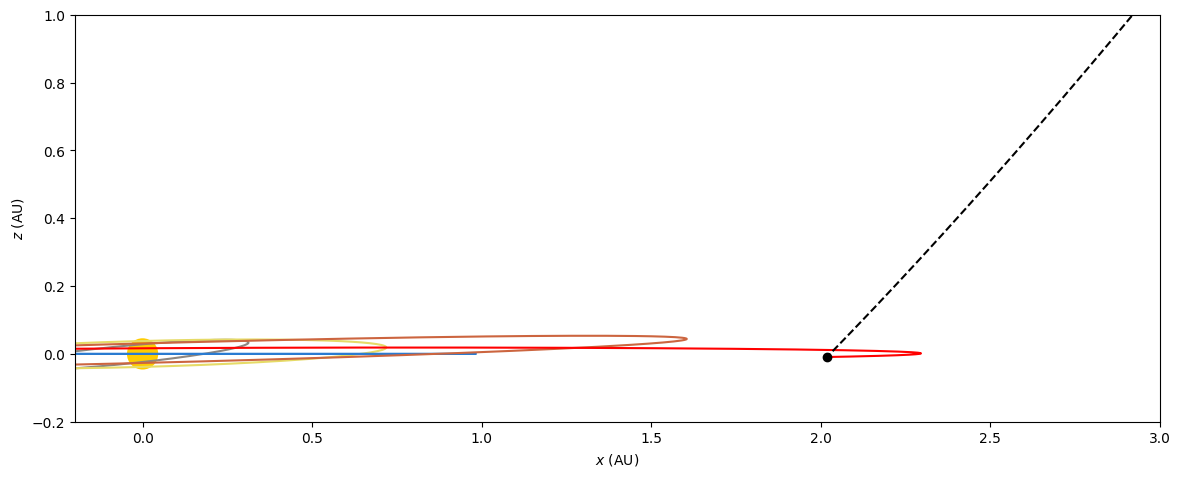
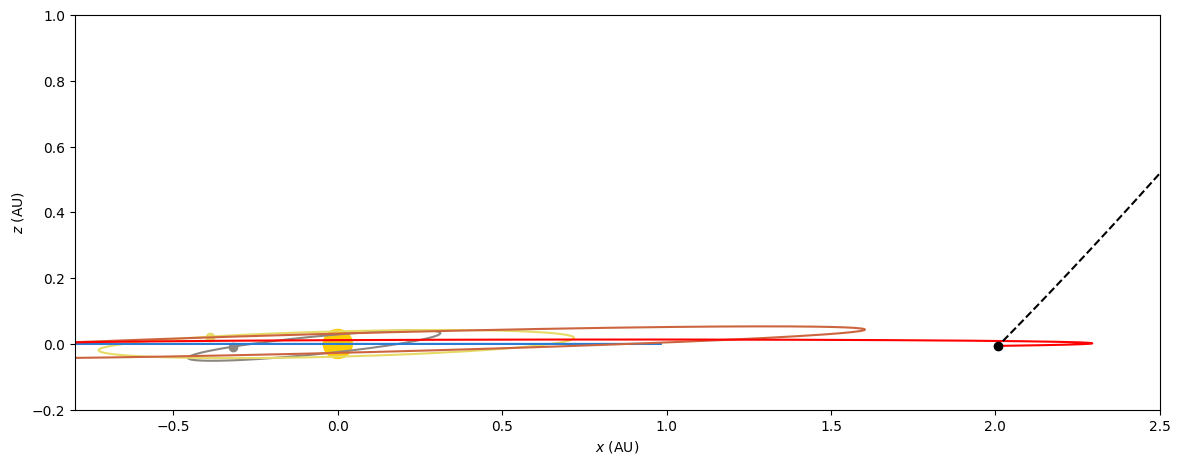
fix: consider escape velocity for Borisov

diff --git a/bin/borisov_porkchop_optimum.py b/bin/borisov_porkchop_optimum.py
@@ -6,21 +6,29 @@ from poliastro.ephem import Ephem
 from poliastro.frames import Planes
 from poliastro.plotting.porkchop import PorkchopPlotter
 from poliastro.util import time_range
+from poliastro.twobody import Orbit
+from poliastro.plotting.misc import plot_solar_system
+from poliastro.maneuver import Maneuver
+from poliastro.bodies import Sun
+from poliastro.twobody.sampling import EpochsArray
 
 
 def solve_porkchop(prograde=True):
     # Declare the launch and arrival spans
     N = 200
-    launch_span = time_range("2018-03-01", end="2018-12-01", num_values=N, scale="tdb")
-    arrival_span = time_range("2019-05-01", end="2020-03-01", num_values=N, scale="tdb")
+    launch_span = time_range("2018-04-01", end="2018-10-01", num_values=N, scale="tdb")
+    arrival_span = time_range("2019-09-01", end="2020-01-01", num_values=N, scale="tdb")
 
     # Load the ephemerides for the Earth and 'Oumuamua
     earth = Ephem.from_csv("bin/ephem/earth.csv", plane=Planes.EARTH_ECLIPTIC)
     borisov = Ephem.from_csv("bin/ephem/borisov.csv", plane=Planes.EARTH_ECLIPTIC)
 
+    # Compute the escape velocity
+    escape_velocity = 11.2 * u.km / u.s
+
     # Compute the porkchop plot
     return PorkchopPlotter(
-        earth, borisov, launch_span, arrival_span, prograde=prograde
+        earth, borisov, launch_span, arrival_span, prograde=prograde, escape_velocity=escape_velocity
     )
 
 def main():
@@ -34,7 +42,7 @@ def main():
     # Get launch energy and time of flight
     _, ax = plt.subplots(1, 1, figsize=(16, 8))
     porkchop.plot_launch_energy(
-        levels=np.linspace(0, 25**2, 11) * u.km ** 2 / u.s ** 2,
+        levels=[0, 200, 250, 300, 350, 400, 450, 500, 600, 650] * u.km ** 2 / u.s ** 2,
         plot_contour_lines=True,
         ax=ax,
     )
@@ -58,7 +66,7 @@ def main():
     # Get launch energy and arrival velocity
     _, ax = plt.subplots(1, 1, figsize=(16, 8))
     porkchop.plot_launch_energy(
-        levels=np.linspace(0, 25**2, 11) * u.km ** 2 / u.s ** 2,
+        levels=[0, 200, 250, 300, 350, 400, 450, 500, 600, 650] * u.km ** 2 / u.s ** 2,
         plot_contour_lines=True,
         ax=ax,
     )
@@ -78,6 +86,55 @@ def main():
             color="red", marker="x", mew=2, label="Lowest energy transfer"
     )
     plt.savefig(f"fig/static/borisov/direct-detailed-porkchop-avl.png", bbox_inches="tight")
+
+
+    # Build the ephemerides
+    earth_ephem = Ephem.from_csv("bin/ephem/earth.csv", plane=Planes.EARTH_ECLIPTIC)
+    borisov_ephem = Ephem.from_csv("bin/ephem/borisov.csv", plane=Planes.EARTH_ECLIPTIC)
+
+    # Define the desired times
+    at_launch = porkchop.launch_date_at_c3_launch_min
+    at_arrival = porkchop.arrival_date_at_c3_launch_min
+    epochs = time_range(at_launch, end=at_arrival, num_values=1000, scale="tdb")
+
+    # Build associated orbits
+    earth = Orbit.from_ephem(Sun, earth_ephem, epoch=at_launch)
+    borisov = Orbit.from_ephem(Sun, borisov_ephem, epoch=at_arrival)
+
+    # Compute the transfer maneuver
+    lambert = Maneuver.lambert(earth, borisov)
+    print(f"Total cost: {lambert.get_total_cost()}")
+    print(f"Total time: {lambert.get_total_time().to(u.day)}")
+    for _, dv in lambert.impulses:
+        print(f"Impulses: {dv.to(u.km / u.s)}")
+        print(f"Cost: {(sum(impulse ** 2 for impulse in dv) ** 0.5).to(u.km/u.s)}")
+    transfer, _ = earth.apply_maneuver(lambert, intermediate=True)
+
+    # Model the transfer orbit as an ephem
+    transfer_ephem = transfer.to_ephem(strategy=EpochsArray(epochs))
+
+    view_and_limits = {
+        "xy": [[-3, 3], [-3, 3]],
+        "xz": [[-0.8, 2.5], [-0.2, 1]],
+        "yz": [[-1.6, 1.7], [-0.2, 1]],
+    }
+
+    for view, (xlim, ylim) in view_and_limits.items():
+        plotter = plot_solar_system(epoch=at_launch, outer=False,
+                                    length_scale_units=u.AU,
+                                    plane=Planes.EARTH_ECLIPTIC, view=view)
+        plotter.plot_ephem(transfer_ephem, label="Transfer orbit", color="red")
+        oumuamua_lines, _ = plotter.plot_coordinates(borisov_ephem.sample(epochs),
+                                                     position=borisov_ephem.rv(at_arrival)[0],
+                                                     label="2I/Borisov at arrival", color="black")
+        oumuamua_lines.set_linestyle("--")
+
+        plotter.backend.ax.set_xlim(xlim)
+        plotter.backend.ax.set_ylim(ylim)
+        if view != "xy":
+            plotter.backend.ax.legend().remove()
+
+        plt.savefig(f"fig/static/borisov/direct-optimum-transfer-{view}.png", bbox_inches="tight")
 
 
 if __name__ == "__main__":

diff --git a/src/03_direct/optimum_transfer.tex b/src/03_direct/optimum_transfer.tex
@@ -145,10 +145,13 @@ The values associated with the point with the lowest characteristic energy for
     \hline
     Object & Launch date & Arrival date & Required $C_3$ [km$^2$/s$^2$] \\
     \hline
-    2I/Borisov & 2018-07-11 & 2019-10-27 & 32.14 \\
+    2I/Borisov & 2018-07-12 & 2019-10-26 & 283.74 \\
     \hline
   \end{tabular}
-  \caption{Optimum transfer orbit for a direct transfer between the Earth and 2I/Borisov.}
+  \caption[Optimum orbit for a direct transfer between the Earth and
+    2I/Borisov.]{Optimum orbit for a direct transfer between the Earth and
+    2I/Borisov. The enegy includes the required impulse for escaping the Earth
+    and for performing a targeting maneuver.}
   \label{tab:borisov-direct-transfer-optimum}
 \end{table}
 
@@ -173,9 +176,11 @@ The values associated with the point with the lowest characteristic energy for
   \label{fig:borisov-optimum-transfer-porkchop-avl}
 \end{figure}
 
-The total time of flight is 473 days. The total cost for the launch is around
-$5.65$ km/s and the arrival impulse is $32.95$ km/s. The total cost for the
-maneuver is $38.61$ km/s. All the impulses are collected in table
+The total time of flight $\Delta t$ is 470 days. The total cost of the launch is
+$\Delta v_\text{launch} = \Delta_e + \Delta v_1 = 11.20 + 5.64 = 16.86$ km/s.
+The arrival impulse is $\Delta v_2 = 33.00$ km/s. If the rendezvous is
+considered, the total cost of the maneuver adds up to $\Delta v = 49.86$ km/s.
+All the impulses are collected in table
 \ref{tab:borisov-direct-transfer-impulses}.
 
 \begin{table}[H]
@@ -184,12 +189,15 @@ maneuver is $38.61$ km/s. All the impulses are collected in table
     \hline
     Impulse & $\Delta v_x$ [km/s] & $\Delta v_y$ [km/s] & $\Delta v_z$ [km/s] \\
     \hline
-    Launch & 5.28 & 1.99 & 0.43 \\
+    Launch & 5.32 & 1.85 & 0.30 \\
     \hline
-    Arrival & -1.71 & -18.27 & -27.37 \\
+    Arrival & -1.70 & -18.30 & -27.41 \\
     \hline
   \end{tabular}
-  \caption{Impulses required for the optimum transfer between Earth and 2I/Borisov.}
+  \caption[Impulses required for the optimum transfer between Earth and
+        2I/Borisov.]{Impulses required for the optimum transfer between Earth
+        and 2I/Borisov. These values assume that the spacecraft has already
+        reached its escape velocity.}
   \label{tab:borisov-direct-transfer-impulses}
 \end{table}
 

diff --git a/src/02_targeting/direct_transfer.tex b/src/02_targeting/direct_transfer.tex
@@ -2,8 +2,9 @@
 
 This section presents the results computed for a direct orbit transfer between
 Earth and the two interstellar objects. The analysis is performed by solving the
-Lambert's problem under the Keplerian assumption. In addition, the modulus of the
-escape velocity is added to the required launch velocity.
+Lambert's problem under the Keplerian assumption. In addition, the modulus of
+the escape velocity for Earth, $\Delta_e = 11.20$ km/s, is added to the required
+launch velocity, leading to more realistic values.
 
 The algorithm used is the one presented by \cite{izzo2015}, as it is proven to
 be more accurate and faster than other classical algorithms \cite{martinez2021}.
